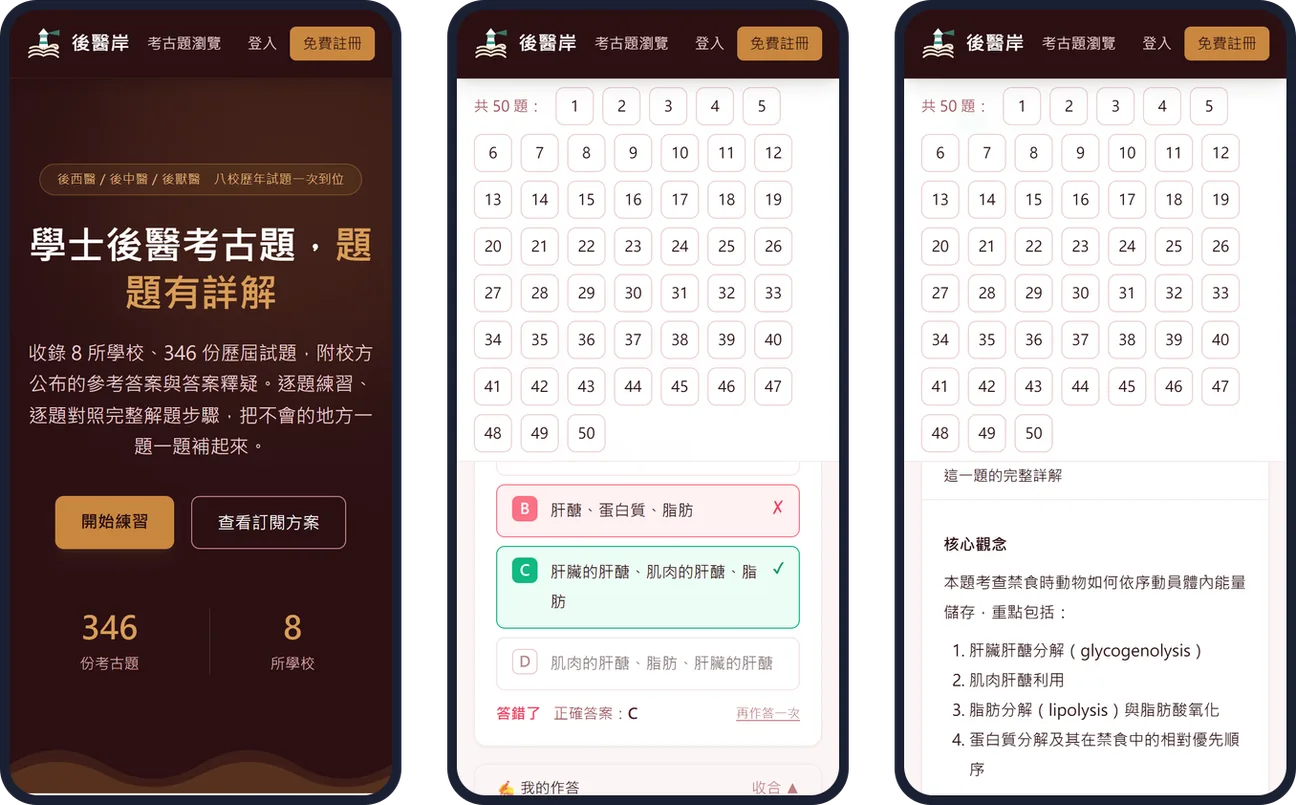
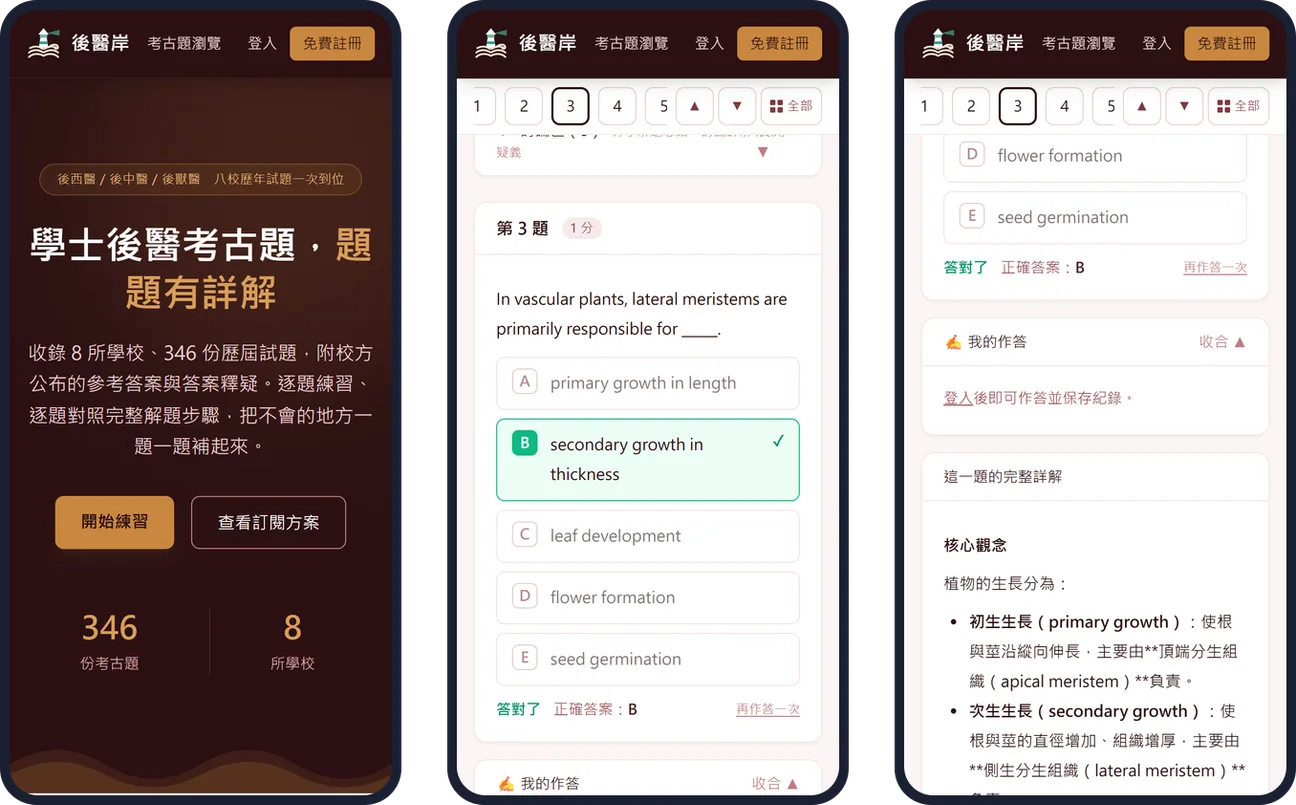
手機題號列改版：更新說明文字與手機／平板截圖
手機上題號列收成一行可左右滑、▲▼ 切換上下題、「全部」展開完整題號，
「題號列自動換行」的舊說法一併改掉。

diff --git a/index.html b/index.html
@@ -382,7 +382,7 @@
           <li>直接點選項作答，答錯的選項標紅、正確答案標綠。</li>
           <li>按 <span class="ui">再作答一次</span> 可以把這一題重練。</li>
           <li>想記下推理過程，在 <span class="ui">我的作答</span> 寫下來，登入後會保存。</li>
-          <li>題號列可以一鍵跳題，五十題、九十題的卷也不必一路往下滑。</li>
+          <li>題號列可以一鍵跳題，五十題、九十題的卷也不必一路往下滑；手機上收成一行，不會擋住題目。</li>
         </ol>
       </div>
     </div>
@@ -464,7 +464,7 @@
   <div class="wrap">
     <h2>手機、平板都順手，零碎時間也能刷一題</h2>
     <p class="lead">
-      版面會跟著螢幕調整：題號列自動換行、選項按鈕夠大好點、長算式可以左右滑、上傳照片直接開相機，直拿橫拿都能用。
+      版面會跟著螢幕調整：手機上題號列收成一行可以左右滑，▲▼ 切換上下題，按「全部」展開完整題號；選項按鈕夠大好點、長算式可以左右滑、上傳照片直接開相機，直拿橫拿都能用。
       通勤、排隊、實驗空檔，打開就能接著練。
     </p>
     <div class="strip">
